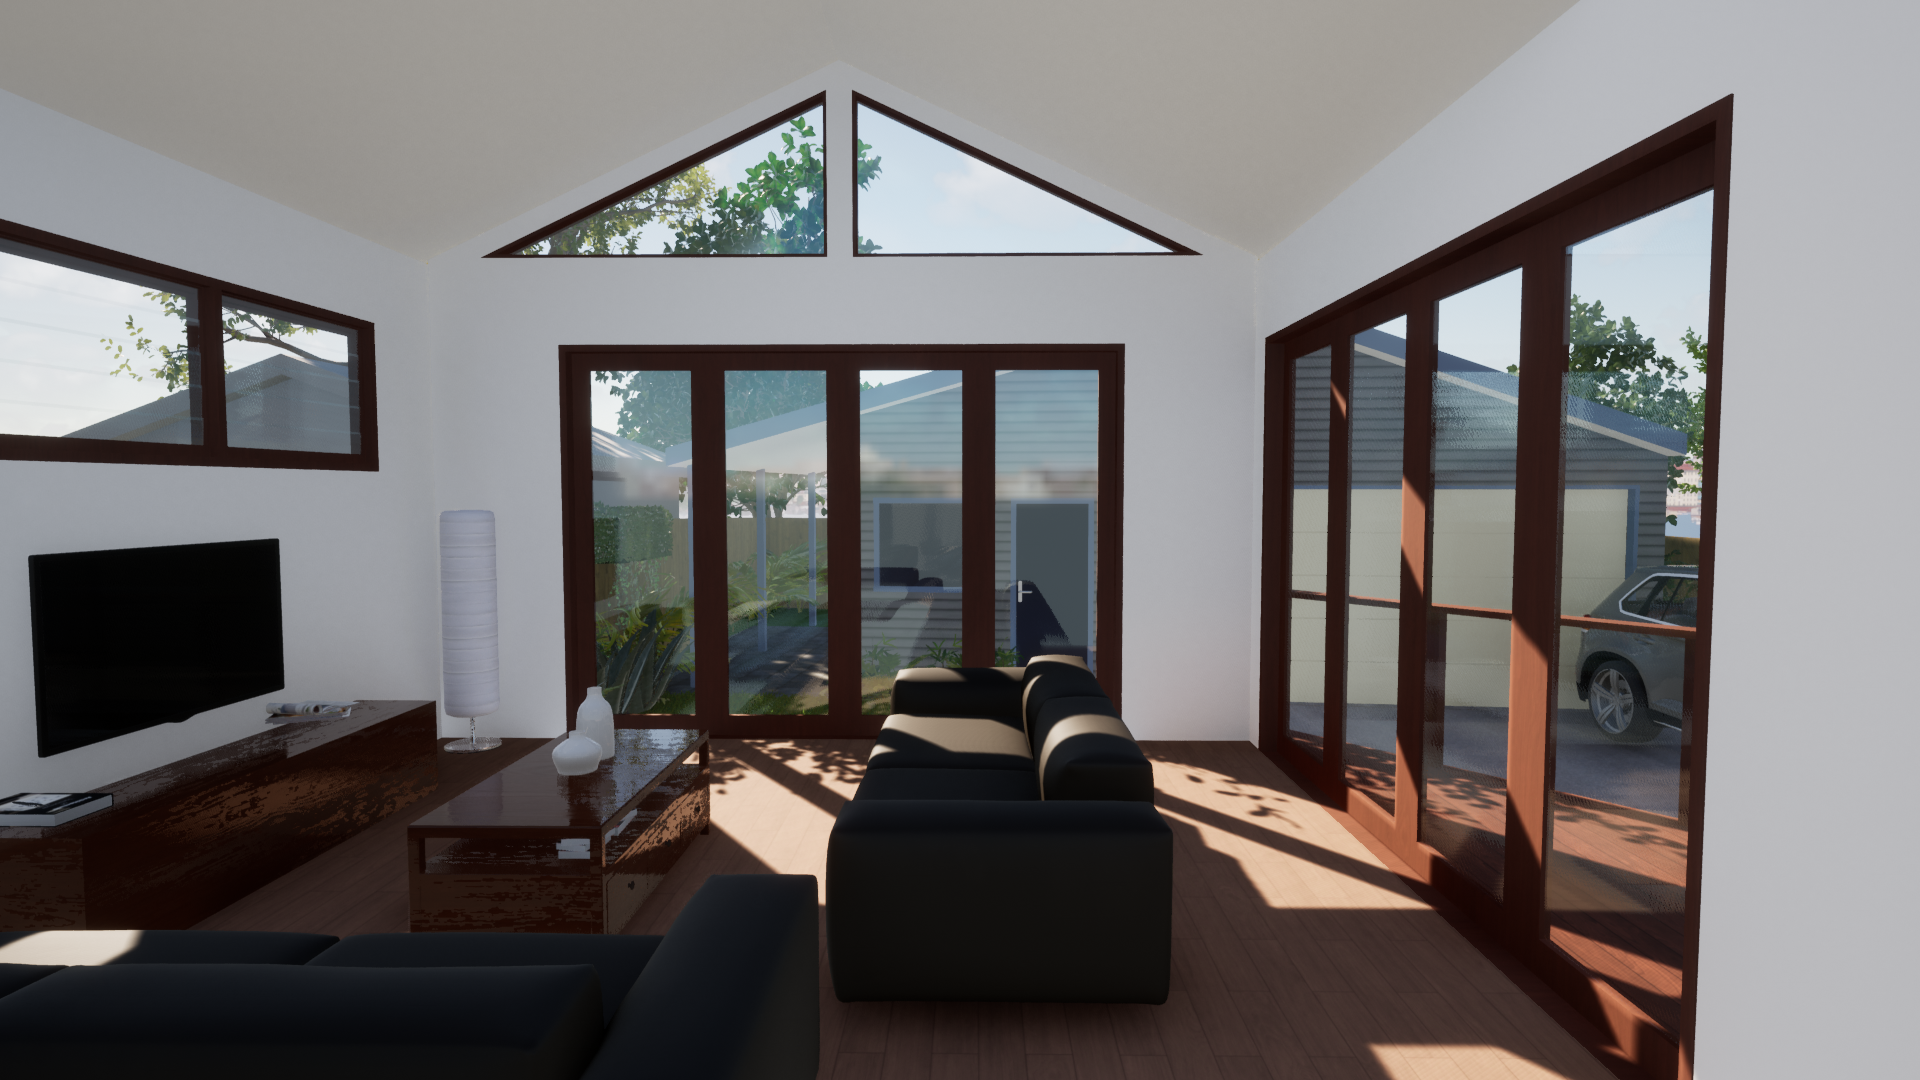
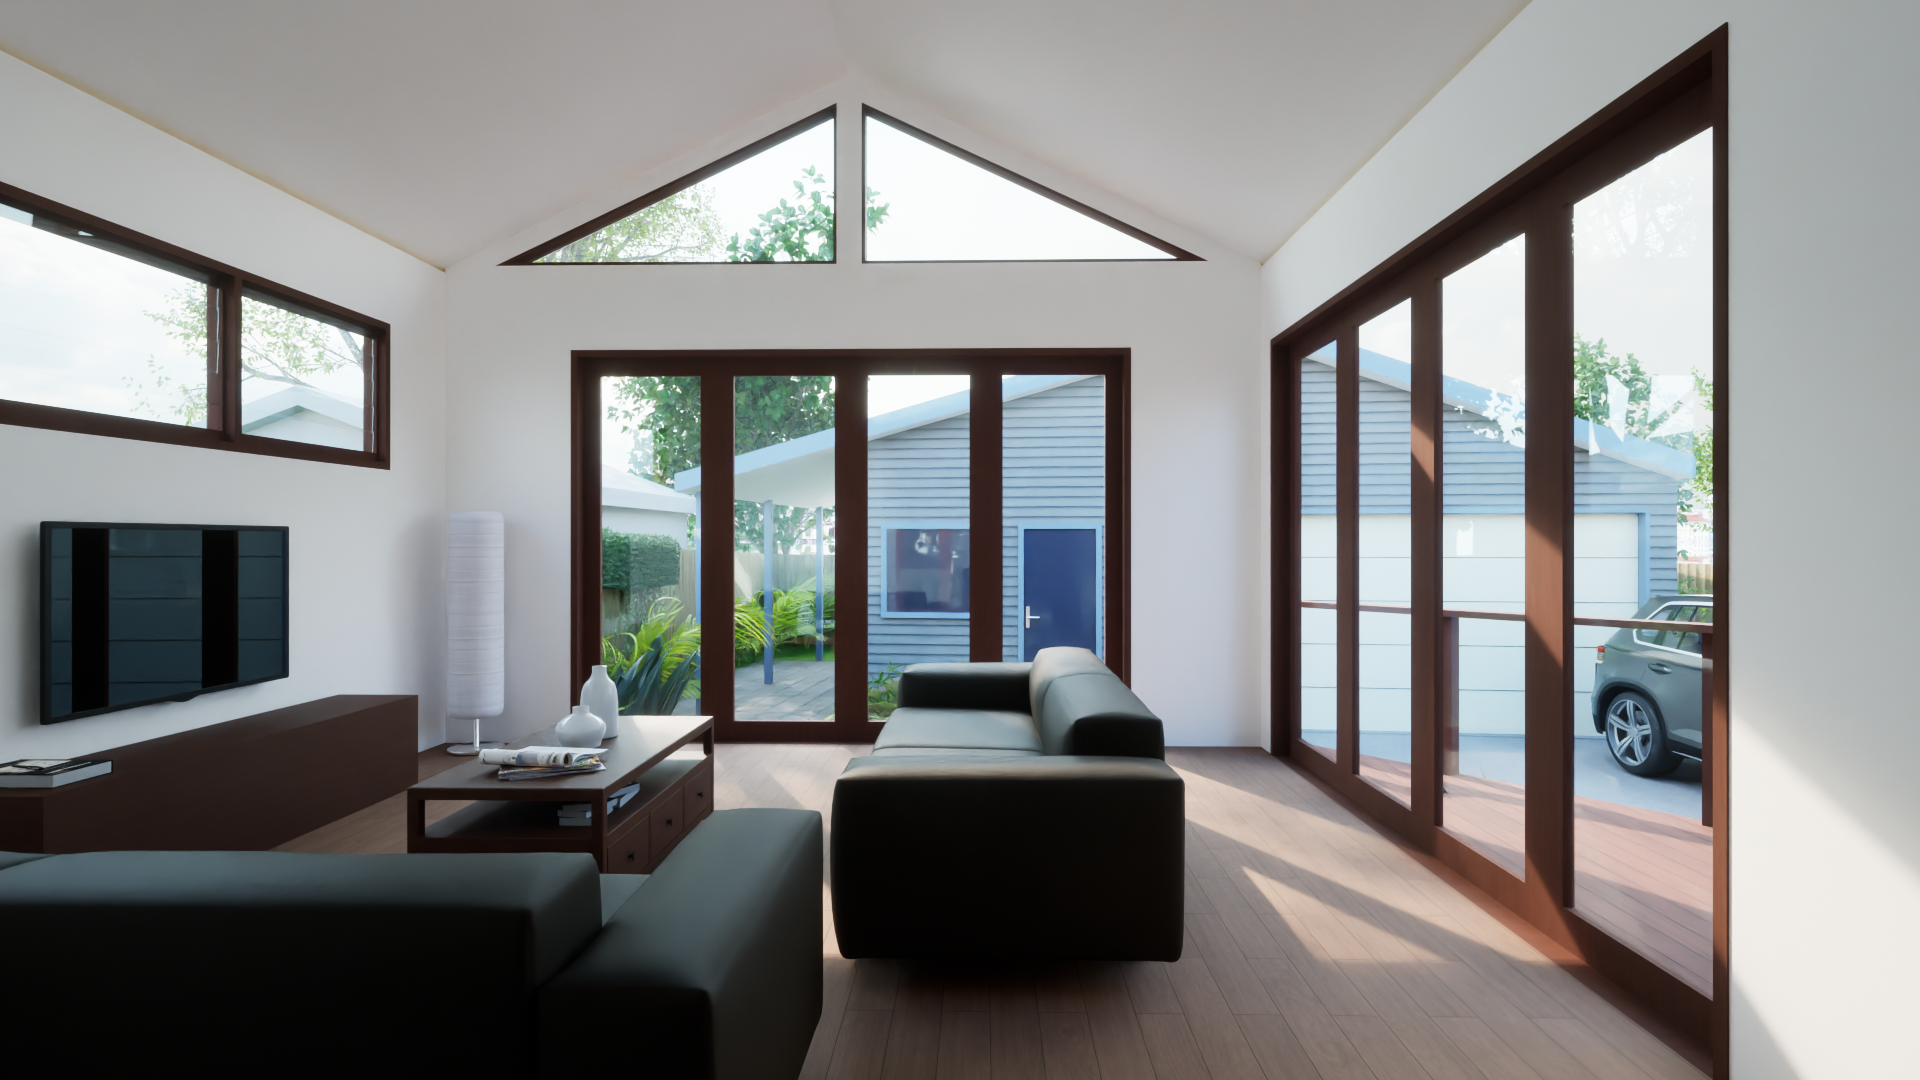
update to leveys

diff --git a/pages/projects/[id].js b/pages/projects/[id].js
@@ -220,7 +220,7 @@ export default function Project({ projectData }) {
                                         objectFit="cover"
                                         priority={index <= 4 ? true : false}
                                     />
-                                    <h3 className={projects.imageTitle} style={{ display: captionToggle && "none" }}>{pic.id} {pic.alt}</h3>
+                                    <h3 className={projects.imageTitle} style={{ display: captionToggle && "none" }}>{pic.alt}</h3>
                                 </div>
                             </Link>
 
@@ -231,6 +231,8 @@ export default function Project({ projectData }) {
                     )}
 
                 </div >
+
+                {/* MAP Plans */}
 
                 <div id="plans" className={utilStyles.anchor} />
 

diff --git a/pages/resume.js b/pages/resume.js
@@ -13,6 +13,7 @@ export default function Resume() {
             <Head>
                 <title>{siteTitle} {' | '} {title}</title>
             </Head>
+            
                 <div className={utilStyles.title}>
                     <h1>Resume Summary</h1>
                     <div className={`${utilStyles.buttons} ${utilStyles.pcOnly}`}>
@@ -107,7 +108,6 @@ export default function Resume() {
 
                     </div>
                 </div>
-
         </Layout>
 
     )

diff --git a/styles/utils.module.css b/styles/utils.module.css
@@ -91,7 +91,7 @@
     border-radius: .5em;
     padding: 1em;
     /* flex: 1; */
-    transition: all ease 2s;
+    /* transition: all ease 2s; */
 
     background-image: url("../public/smoke1.gif") ;
     background-position: center;

diff --git a/projects/levey-reno.md b/projects/levey-reno.md
@@ -39,29 +39,43 @@ thumb: '/1.png'
 thumbAlt: 'hello'
 
 pics: [
-{id: "1", image: '/1.png', alt: "Concept 1b"},
-{id: "2", image: '/2.png', alt: "Concept 2 - New Gable roof, raking ceilings"},
-{id: "3", image: '/3.png', alt: "hello"},
-{id: "4", image: '/4.png', alt: "hello"},
-{id: "5", image: '/5.png', alt: "Aerial Photomontage of the field and proposed facility building"},
-{id: "6", image: '/6.png', alt: "Ground Level Photomontage of the field and proposed facility building"}
+{id: "1", image: '/1.png', alt: 'Concept 1 New lounge - maximal glazing and room width, existing side deck is kept, only con is the low ceiling height needs to accommodate the box gutter'},
+{id: "2", image: '/2.png', alt: 'Concept 2 Gable roof creates more space but requires reworking and extension of existing pitched roof'},
+{id: "3", image: '/3.png', alt: 'Concept 3 testing the idea of a solid eastern wall create a more "closed-in" with a narrower room width to option and larger side deck. Access to the rear yard is kept testing the idea of a solid eastern wall'},
+{id: "4", image: '/4.png', alt: 'Concept 4  '},
+{id: "5", image: '/5.png', alt: 'Concept 1'},
+{id: "6", image: '/6.png', alt: 'Concept 2 Gable roof creates more space but requires reworking and extension of existing pitched roof'},
+{id: "7", image: '/7.png', alt: 'Concept 3'},
+{id: "8", image: '/8.png', alt: 'Concept 4'},
+{id: "9", image: '/9.png', alt: 'Concept 1'},
+{id: "10", image: '/10.png', alt: 'Concept 2 also testing a wrap around deck with the removal of the existing tree'},
+{id: "11", image: '/11.png', alt: 'Concept 3 new folding doors and new deck raised to internal floor height to make indoor / outdooring living'},
+{id: "12", image: '/12.png', alt: 'Concept 4 closes access to the yard from the lounge to keep more backyard, but this could be combined with concept 3 to give access and retain more decking'},
+{id: "13", image: '/13.png', alt: 'Concept 1'},
+{id: "14", image: '/14.png', alt: 'Concept 2'},
+{id: "15", image: '/15.png', alt: 'Concept 3'},
+{id: "16", image: '/16.png', alt: 'Concept 4'},
+{id: "17", image: '/17.png', alt: 'Concept 1'},
+{id: "18", image: '/18.png', alt: 'Concept 2'},
+{id: "19", image: '/19.png', alt: 'Concept 3'},
+{id: "20", image: '/20.png', alt: 'Concept 4'}
 ]
 
 north: -15
 
 plans: [
-{id: "1", plan: '/p1.jpg', alt: "Concept Overview - Perspectives"},
-{id: "2", plan: '/p2.jpg', alt: "Existing Plans"},
-{id: "3", plan: '/p3.jpg', alt: "Concept 1a Plans"},
-{id: "4", plan: '/p4.jpg', alt: "Concept 1a Sections"},
-{id: "5", plan: '/p5.jpg', alt: "Concept 1b Plans"},
-{id: "6", plan: '/p6.jpg', alt: "Concept 1b Sections"},
-{id: "7", plan: '/p7.jpg', alt: "Concept 2 Plans"},
-{id: "8", plan: '/p8.jpg', alt: "Concept 2 Sections"},
-{id: "9", plan: '/p9.jpg', alt: "Concept 3 Plans"},
-{id: "10", plan: '/p10.jpg', alt: "Concept 3 Sections"},
-{id: "11", plan: '/p11.jpg', alt: "Concept 4 Plans"},
-{id: "12", plan: '/p12.jpg', alt: "Concept 4 Sections"},
+# {id: 1, plan: '/p1.jpg', alt: Concept Overview - Perspectives},
+# {id: 2, plan: '/p2.jpg', alt: Existing Plans},
+# {id: 3, plan: '/p3.jpg', alt: Concept 1a Plans},
+# {id: 4, plan: '/p4.jpg', alt: Concept 1a Sections},
+{id: 5, plan: '/p5.jpg', alt: Concept 1 Plans},
+{id: 6, plan: '/p6.jpg', alt: Concept 1 Sections},
+{id: 7, plan: '/p7.jpg', alt: Concept 2 Plans},
+{id: 8, plan: '/p8.jpg', alt: Concept 2 Sections},
+{id: 9, plan: '/p9.jpg', alt: Concept 3 Plans},
+{id: 10, plan: '/p10.jpg', alt: Concept 3 Sections},
+{id: 11, plan: '/p11.jpg', alt: Concept 4 Plans},
+{id: 12, plan: '/p12.jpg', alt: Concept 4 Sections}
 ]
 
 
